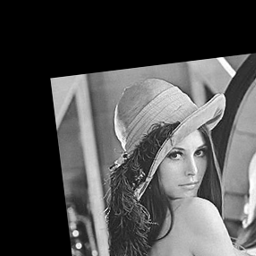
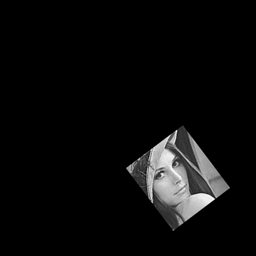
big translation / direction error fixed

diff --git a/Interactive_demo.m b/Interactive_demo.m
@@ -3,20 +3,20 @@
 
 I = imread('lena.bmp');
 [a,b] = size(I);
-%J = imcrop(I);
-%[c,d] = size(J);
-% p1 = floor((a-c)/2);
-% p2 = floor((b-d)/2);
-% J = padarray(J,[p1,p2]);
-% J = imresize(J,[256,256]);
+J = imcrop(I);
+[c,d] = size(J);
+p1 = floor((a-c)/2);
+p2 = floor((b-d)/2);
+J = padarray(J,[p1,p2]);
+J = imresize(J,[256,256]);
 
-% subplot(2,2,2)
-% imshow(J)
+subplot(2,2,2)
+imshow(J)
 %change the rotation angle of the second image here 
-Orig_theta = 17;
+Orig_theta = 37;
 %create the second image
-J = imrotate(I,Orig_theta,'bicubic','loose');
-% J = imrotate(J,Orig_theta,'bicubic','loose');
+%J = imrotate(I,Orig_theta,'bicubic','loose');
+J = imrotate(J,Orig_theta,'bicubic','loose');
 %J = imtranslate(J,[40, 40]);
 
 %preprocessing of the daata
@@ -25,25 +25,25 @@ J = im2double(J);
 [a,b] = size(I)
 [co,do] = size(J)
 J = imresize(J,a/co);
-J = imtranslate(J,[20, 60]);
+J = imtranslate(J,[50, 50]);
 [c,d] = size(J);
 imwrite(J,'len_rotated.png')
 % subplot(2,3,1)
 % imshow(I)
-subplot(2,3,2)
-imshow(J)
-% subplot(2,2,2)
+% subplot(2,3,2)
 % imshow(J)
-% title('Image 2 , disoriented')
+subplot(2,2,2)
+imshow(J)
+title('Image 2 , disoriented')
 
 
 I(85:200,80:200) = 0;
-subplot(2,3,1)
-imshow(I)
-% subplot(2,2,1)
+% subplot(2,3,1)
 % imshow(I)
-% imwrite(I,'lena_occluded.png')
-% title('Image 1, Occluded')
+subplot(2,2,1)
+imshow(I)
+imwrite(I,'lena_occluded.png')
+title('Image 1, Occluded')
 
 
 
@@ -80,8 +80,8 @@ ir = abs(ifft2(phase2 .* conj(phase1) ./ r0));
 angle = 360 * (I_col-1)/ydim
 
 rec_I = imrotate(J,angle,'bicubic','loose');
-subplot(2,3,3)
-imshow(rec_I)
+% subplot(2,3,3)
+% imshow(rec_I)
 
 rec_Im = imresize(rec_I,co/a);
 [g,h] = size(rec_Im);
@@ -95,8 +95,8 @@ end
 size(rec_Im)
 shift1+a*co/a
 rec_I_matched = rec_Im(shift1:shift1+a*co/a-1,shift2:shift2+b*co/a-1);
-subplot(2,3,4)
-imshow(rec_I_matched)
+% subplot(2,3,4)
+% imshow(rec_I_matched)
 imwrite(rec_I_matched,'obtained.png')
 [aa,bb] = size(rec_I_matched);
 
@@ -104,7 +104,13 @@ pad1 = ceil((aa-a)/2);
 pad2 = ceil((bb-b)/2);
 
 original_padded = padarray(I,[pad1,pad2]);
-subplot(2,3,6)
-imshow(original_padded)
+% subplot(2,3,6)
+% imshow(original_padded)
 
-translation(original_padded)
+% h,v= correct_translation(I,rec_I_matched);
+% 
+% shift_I = imtranslate(rec_I_matched,[-1*h,-1*v]);
+% subplot(2,3,4)
+% imshow(shift_I)
+
+translation_interactive(original_padded)

diff --git a/translation_interactive.m b/translation_interactive.m
@@ -1,6 +1,6 @@
 %implementation of 1996 bs reddy and chatterjee paper
 %ref fig1 on the paper to better understand the code modules
-function [trans_horizontal,trans_vertical] = translation(I)
+function [trans_horizontal,trans_vertical] = translation_interactive(I)
 
 %create the second image (translation)
 J = imread('obtained.png');
@@ -43,11 +43,11 @@ else trans_horizontal<120
     shift_I = imtranslate(J,[-1*trans_horizontal,-1*trans_vertical]);
 end
 
-subplot(2,3,5)
-imshow(shift_I)
-% subplot(2,2,3)
+% subplot(2,3,5)
 % imshow(shift_I)
-% title('result 1, Image oriented using FFT')
+subplot(2,2,3)
+imshow(shift_I)
+title('result 1, Image oriented using FFT')
 
 if size(shift_I) == size(I)
     'true'
@@ -66,9 +66,9 @@ for l=10:size(I,1)-10
 end
 
 count
-subplot(2,3,4)
+subplot(2,2,4)
 imshow(I)
-% title('result 2, information gained from image2')
+title('result 2, information gained from image2')
 
 
 
